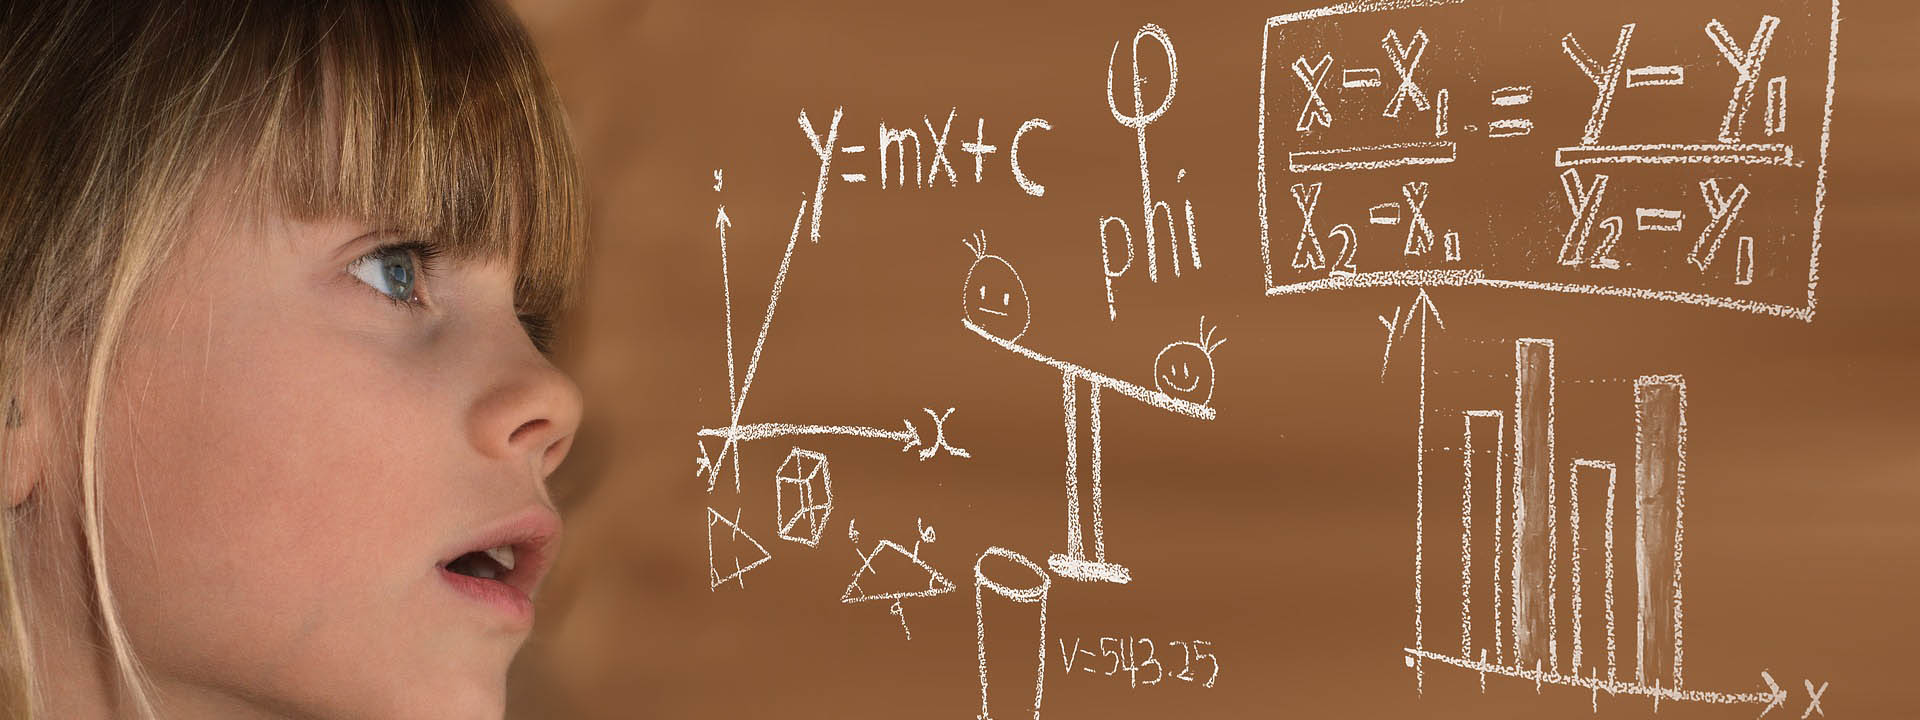
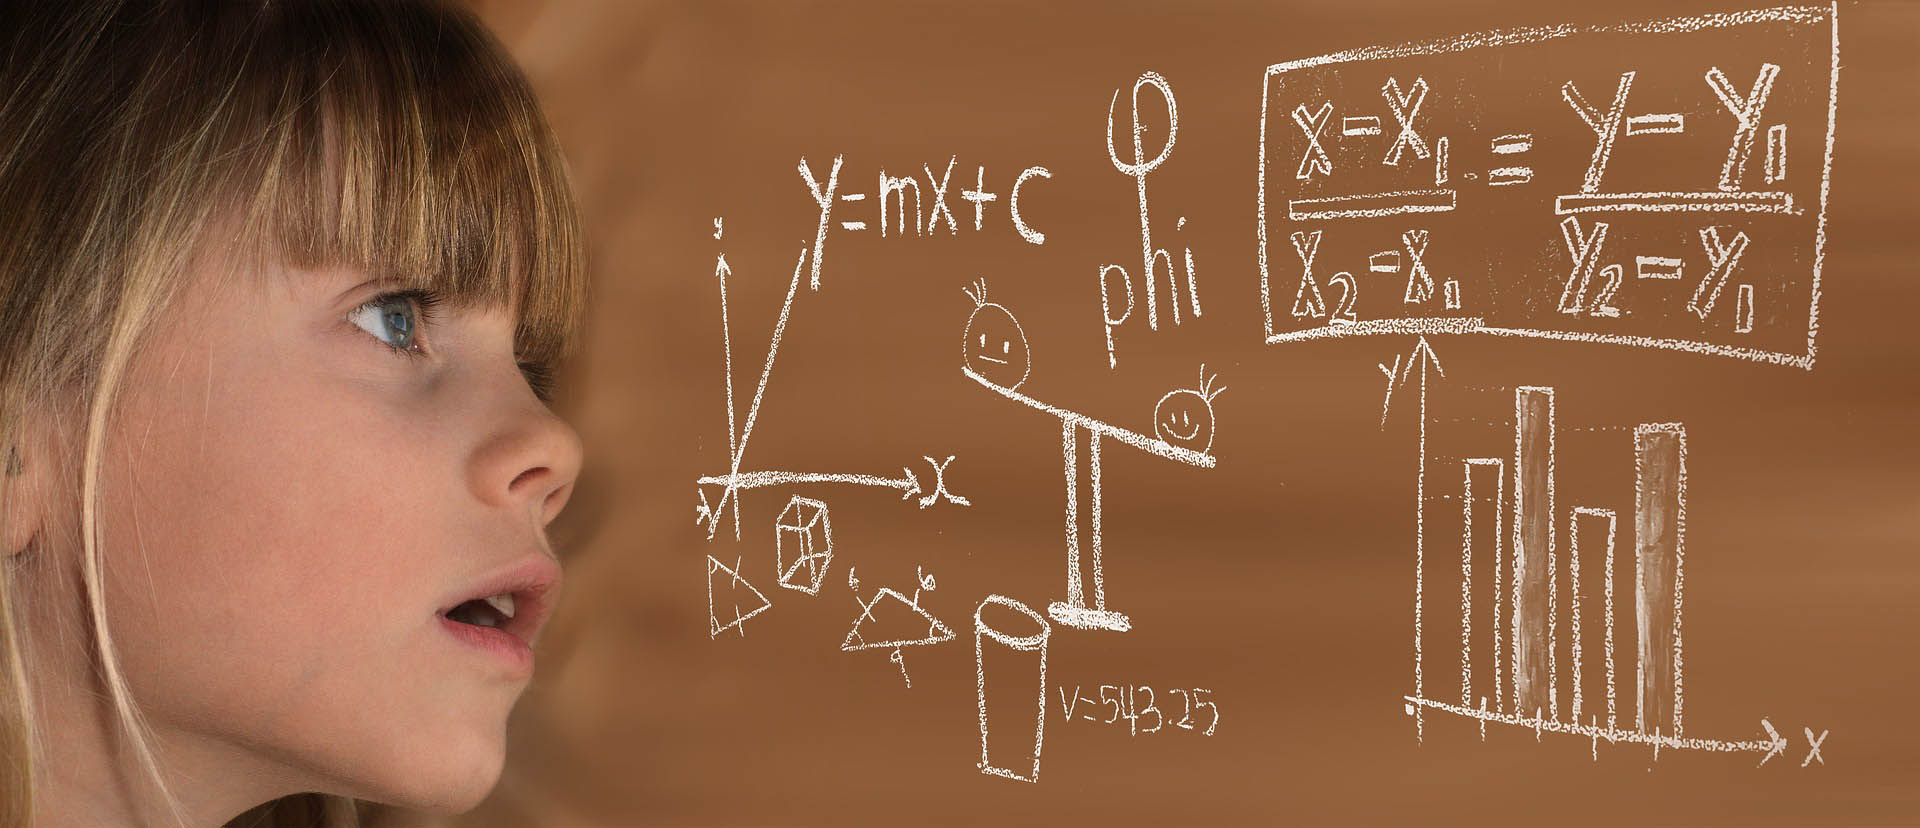
more work done on home page

diff --git a/style.css b/style.css
@@ -32,6 +32,8 @@ h2 {
     margin-bottom: 15px;
 }
 
+
+
 h1,
 h2,
 h3,
@@ -57,10 +59,12 @@ body {
     font-weight: bold;
 }
 
+
 .top_header {
     height: 68px;
     background-color: var(--top_header_color);
     display: flex;
+
 }
 
 .top_header a {
@@ -78,7 +82,6 @@ body {
     padding: 0px 15px 0px 15px;
     border-color: var(--top_header_color);
     border-style: solid;
-    border-color: var(--top_header_color);
     margin: -10px 30px;
     top: 105px;
     position: absolute;
@@ -182,6 +185,7 @@ nav {
 .exhibition_hall {
     width: 100%;
     height: 100%;
+    object-fit: cover;
 }
 
 .home_grid_item:nth-child(2) {
@@ -225,14 +229,16 @@ nav {
     width: 100%;
     max-height: 200px;
     object-fit: cover;
+
 }
 
 .background_image {
-    background-image: url(image/learn-2405206_1920_small.jpg);
+    background-image: url(Image/learn-2405206_1920.jpg);
     height: 350px;
     margin-bottom: 15px;
     background-repeat: no-repeat;
     background-size: cover;
+
 }
 
 .header_homepage {
@@ -330,108 +336,114 @@ footer {
     footer {
         height: 800px;
     }
-}
 
-
-
-@media only screen and (min-width: 800px) {
-
-    /*gobal*/
-
-    nav {
-        display: inline-flex;
-        height: 0;
-        left: 50px;
-        top: 95px;
+    .header_homepage {
+        font-size: 30px;
+        width: 336px;
+        padding: 5px 28px
     }
 
-    nav ul li a {
-        left: 250px;
-        position: static;
-        top: -55px;
+
+
+    @media only screen and (min-width: 800px) {
+
+        /*gobal*/
+
+        nav {
+            display: inline-flex;
+            height: 0;
+            left: 50px;
+            top: 95px;
+        }
+
+        nav ul li a {
+            left: 250px;
+            position: static;
+            top: -55px;
+        }
+
+        nav ul {
+            display: flex;
+        }
+
+        .hamburgerbars {
+            display: none;
+        }
+
+        nav a:hover {
+            background-color: #fff;
+            padding: 6px 8px;
+        }
+
+        footer {
+            height: 360px;
+        }
+
+        .tickets {
+            display: inline-flex;
+        }
+
+        .bottom_header_tickets {
+            display: none;
+        }
+
+        .home_grid_item:nth-child(6) {
+            display: flex;
+            flex-direction: column;
+        }
+
+        .holding_a_plant {
+            width: min(380px, 550px);
+        }
+
+        /*Home*/
+
+        .background_image {
+            background-image: url(image/learn-2405206_1920.jpg);
+            height: 450px;
+            background-size: cover;
+            background-position-y: 80%;
+        }
+
     }
 
-    nav ul {
-        display: flex;
+    @media (min-width: 1200px) {
+
+
+
+        /* index*/
+
+        .home_grid_item:nth-child(1) {
+            grid-column-start: 1;
+            grid-column-end: 2;
+        }
+
+        .home_grid_item:nth-child(2) {
+            grid-column: 2 / 4;
+            padding: 30px 65px;
+        }
+
+        .home_grid_item:nth-child(2),
+        .home_grid_item:nth-child(3),
+        .home_grid_item:nth-child(4),
+        .home_grid_item:nth-child(5) {
+            padding: 30px 40px;
+        }
+
+        .home_grid_item:nth-child(6) {
+            grid-column: 2 / 4;
+            flex-direction: column;
+        }
+
+        .holding_a_plant {
+            width: min(380px, 380px);
+            /* margin-left: -28px;*/
+            margin-right: 44px;
+        }
+
+        .home_grid_item:nth-child(6) {
+            display: flex;
+            flex-direction: row;
+        }
+
     }
-
-    .hamburgerbars {
-        display: none;
-    }
-
-    nav a:hover {
-        background-color: #fff;
-        padding: 6px 8px;
-    }
-
-    footer {
-        height: 360px;
-    }
-
-    .tickets {
-        display: inline-flex;
-    }
-
-    .bottom_header_tickets {
-        display: none;
-    }
-
-    .home_grid_item:nth-child(6) {
-        display: flex;
-        flex-direction: column;
-    }
-
-    .holding_a_plant {
-        width: min(380px, 550px);
-    }
-
-    /*Home*/
-
-    .background_image {
-        background-image: url(image/learn-2405206_1920.jpg);
-        height: 450px;
-        background-size: cover;
-    }
-
-}
-
-@media (min-width: 1200px) {
-
-
-
-    /* index*/
-
-    .home_grid_item:nth-child(1) {
-        grid-column-start: 1;
-        grid-column-end: 2;
-    }
-
-    .home_grid_item:nth-child(2) {
-        grid-column: 2 / 4;
-        padding: 30px 65px;
-    }
-
-    .home_grid_item:nth-child(2),
-    .home_grid_item:nth-child(3),
-    .home_grid_item:nth-child(4),
-    .home_grid_item:nth-child(5) {
-        padding: 30px 40px;
-    }
-
-    .home_grid_item:nth-child(6) {
-        grid-column: 2 / 4;
-        flex-direction: column;
-    }
-
-    .holding_a_plant {
-        width: min(380px, 380px);
-        /* margin-left: -28px;*/
-        margin-right: 44px;
-    }
-
-    .home_grid_item:nth-child(6) {
-        display: flex;
-        flex-direction: row;
-    }
-
-}
